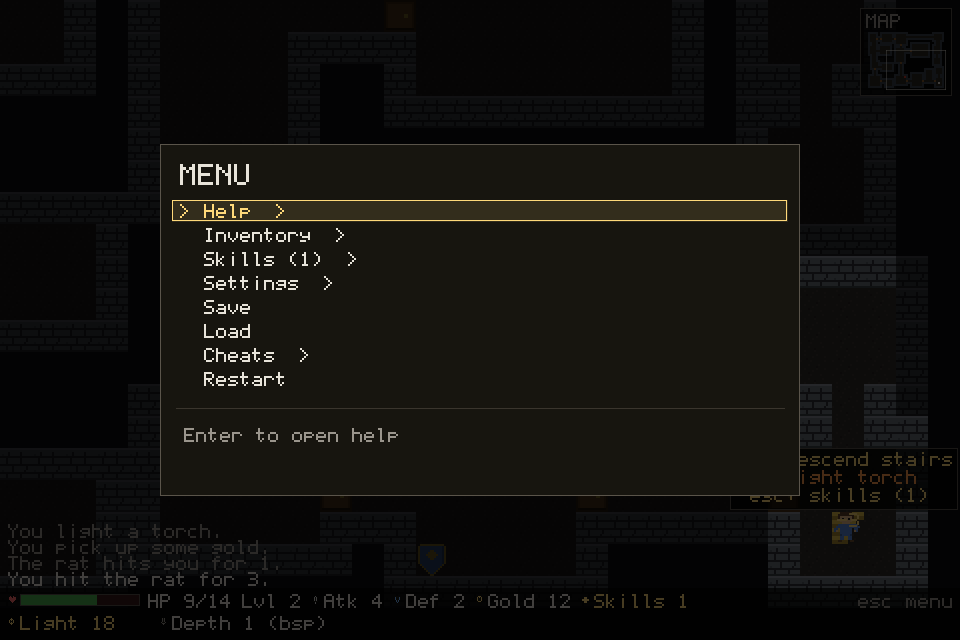
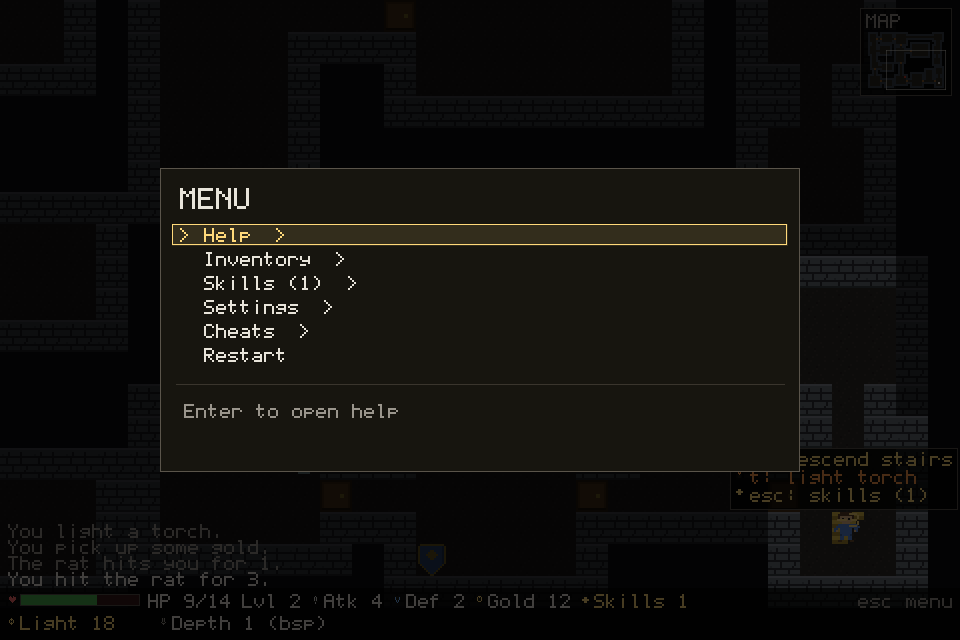
Add autosave setting

Changed region(s): [[0.1562, 0.25, 0.8438, 0.6875], [0.7812, 0.7188, 0.8125, 0.7812]]

diff --git a/tests/platform/menuTree.test.ts b/tests/platform/menuTree.test.ts
@@ -5,18 +5,19 @@ import { buildMenuTree } from "../../src/platform/menuTree.ts";
 import { defaultSettings } from "../../src/platform/settings.ts";
 import { MenuNav } from "../../src/ui/menu.ts";
 
-function makeMenu(game: Game): MenuNav {
+function makeMenu(game: Game, settings = defaultSettings()): MenuNav {
   const actions = {
     cycleScaling: () => {},
     toggleSound: () => {},
     cycleVolume: () => {},
     setVolume: () => {},
+    toggleAutosave: () => {},
     save: () => {},
     load: () => {},
     reset: () => {},
     back: () => {},
   };
-  return new MenuNav(() => buildMenuTree(game, defaultSettings(), actions));
+  return new MenuNav(() => buildMenuTree(game, settings, actions));
 }
 
 describe("inventory menu", () => {
@@ -75,5 +76,29 @@ describe("inventory menu", () => {
 
     expect(game.inventory.torches).toBe(0);
     expect(game.lightTurns).toBe(TORCH_TURNS - 1);
+  });
+});
+
+describe("settings menu", () => {
+  it("hides save and load when autosave is on", () => {
+    const game = new Game();
+    const settings = defaultSettings();
+    settings.autosave = true;
+    const menu = makeMenu(game, settings);
+    menu.open();
+
+    expect(menu.entries().some((entry) => entry.label === "Save")).toBe(false);
+    expect(menu.entries().some((entry) => entry.label === "Load")).toBe(false);
+  });
+
+  it("shows save and load when autosave is off", () => {
+    const game = new Game();
+    const settings = defaultSettings();
+    settings.autosave = false;
+    const menu = makeMenu(game, settings);
+    menu.open();
+
+    expect(menu.entries().some((entry) => entry.label === "Save")).toBe(true);
+    expect(menu.entries().some((entry) => entry.label === "Load")).toBe(true);
   });
 });

diff --git a/src/platform/menuTree.ts b/src/platform/menuTree.ts
@@ -7,6 +7,7 @@ export interface MenuTreeActions {
   toggleSound(): void;
   cycleVolume(): void;
   setVolume(value: number): void;
+  toggleAutosave(): void;
   save(): void;
   load(): void;
   reset(): void;
@@ -135,19 +136,32 @@ export function buildMenuTree(game: Game, settings: Settings, actions: MenuTreeA
             onChange: actions.setVolume,
           },
         },
+        {
+          label: `Autosave: ${settings.autosave ? "on" : "off"}`,
+          hint: [
+            "Enter: toggle autosave",
+            `Current autosave: ${settings.autosave ? "on" : "off"}`,
+            settings.autosave ? "Save/Load are disabled when autosave is on" : "Save/Load are available when autosave is off",
+          ],
+          action: actions.toggleAutosave,
+        },
         { label: "Back", hint: "Enter to return to the menu", action: actions.back },
       ],
     },
-    {
-      label: "Save",
-      hint: ["Enter to save now", "The game auto-saves after every move"],
-      action: actions.save,
-    },
-    {
-      label: "Load",
-      hint: ["Enter to load the latest auto-save", "Auto-save happens after every move"],
-      action: actions.load,
-    },
+    ...(settings.autosave
+      ? []
+      : [
+          {
+            label: "Save",
+            hint: ["Enter to save now", "Autosave is off"],
+            action: actions.save,
+          },
+          {
+            label: "Load",
+            hint: ["Enter to load the latest save", "Autosave is off"],
+            action: actions.load,
+          },
+        ]),
     {
       label: "Cheats",
       hint: "Enter to open cheats",

diff --git a/src/platform/settings.ts b/src/platform/settings.ts
@@ -8,6 +8,7 @@ export interface Settings {
   scalingMode: ScalingMode;
   soundEnabled: boolean;
   volume: number;
+  autosave: boolean;
 }
 
 export interface SettingsStorage {
@@ -16,7 +17,7 @@ export interface SettingsStorage {
 }
 
 export function defaultSettings(): Settings {
-  return { scalingMode: "fractional", soundEnabled: true, volume: 0.5 };
+  return { scalingMode: "fractional", soundEnabled: true, volume: 0.5, autosave: true };
 }
 
 export function loadSettings(storage: SettingsStorage): Settings {
@@ -29,6 +30,7 @@ export function loadSettings(storage: SettingsStorage): Settings {
       fractionalScaling?: boolean;
       soundEnabled?: boolean;
       volume?: number;
+      autosave?: boolean;
     };
 
     const scalingMode =
@@ -44,6 +46,7 @@ export function loadSettings(storage: SettingsStorage): Settings {
       scalingMode,
       soundEnabled: typeof s.soundEnabled === "boolean" ? s.soundEnabled : true,
       volume: typeof s.volume === "number" ? Math.max(0, Math.min(1, s.volume)) : 0.5,
+      autosave: typeof s.autosave === "boolean" ? s.autosave : true,
     };
   } catch {
     return defaultSettings();

diff --git a/src/platform/main.ts b/src/platform/main.ts
@@ -106,6 +106,14 @@ function setVolumeSetting(volume: number): void {
   saveSettings(localStorage, settings);
 }
 
+function toggleAutosave(): void {
+  settings.autosave = !settings.autosave;
+  saveSettings(localStorage, settings);
+  if (settings.autosave && game.screen === "game" && !game.gameOver) {
+    saveRun(localStorage, game);
+  }
+}
+
 function resetGame(): void {
   game.reset();
   clearRun(localStorage);
@@ -144,6 +152,7 @@ menu = new MenuNav(() =>
     toggleSound,
     cycleVolume: cycleVolumeSetting,
     setVolume: setVolumeSetting,
+    toggleAutosave,
     save: () => saveRun(localStorage, game),
     load: () => {
       if (loadRun(localStorage, game)) {
@@ -170,7 +179,9 @@ window.addEventListener("keydown", (e) => {
   handleKeydown(e, { game, menu, audio, startGame, toggleSound, openInventory: openInventoryMenu });
   if (game.screen === "game" && !game.gameOver) {
     audio.setMusicContext(game.depth, game.danger());
-    saveRun(localStorage, game);
+    if (settings.autosave) {
+      saveRun(localStorage, game);
+    }
   } else if (game.gameOver) {
     clearRun(localStorage);
   }

diff --git a/tests/platform/settings.test.ts b/tests/platform/settings.test.ts
@@ -37,6 +37,7 @@ describe("settings", () => {
       scalingMode: "smooth",
       soundEnabled: false,
       volume: 0.75,
+      autosave: true,
     });
   });
 
@@ -49,11 +50,17 @@ describe("settings", () => {
 
   it("saves settings to storage", () => {
     const storage = fakeStorage();
-    saveSettings(storage, { scalingMode: "integer", soundEnabled: false, volume: 0.25 });
+    saveSettings(storage, {
+      scalingMode: "integer",
+      soundEnabled: false,
+      volume: 0.25,
+      autosave: false,
+    });
     expect(JSON.parse(storage.data.get("roguelike.settings") ?? "{}")).toEqual({
       scalingMode: "integer",
       soundEnabled: false,
       volume: 0.25,
+      autosave: false,
     });
   });
 

diff --git a/tools/make-screenshots.ts b/tools/make-screenshots.ts
@@ -157,6 +157,7 @@ function renderGameplay(showMenu: boolean): Buffer {
         toggleSound: () => {},
         cycleVolume: () => {},
         setVolume: () => {},
+        toggleAutosave: () => {},
         save: () => {},
         load: () => {},
         reset: () => {},

diff --git a/tests/platform/input.test.ts b/tests/platform/input.test.ts
@@ -18,6 +18,7 @@ function makeMenu(game: Game): MenuNav {
     toggleSound: () => {},
     cycleVolume: () => {},
     setVolume: () => {},
+    toggleAutosave: () => {},
     save: () => {},
     load: () => {},
     reset: () => {},
